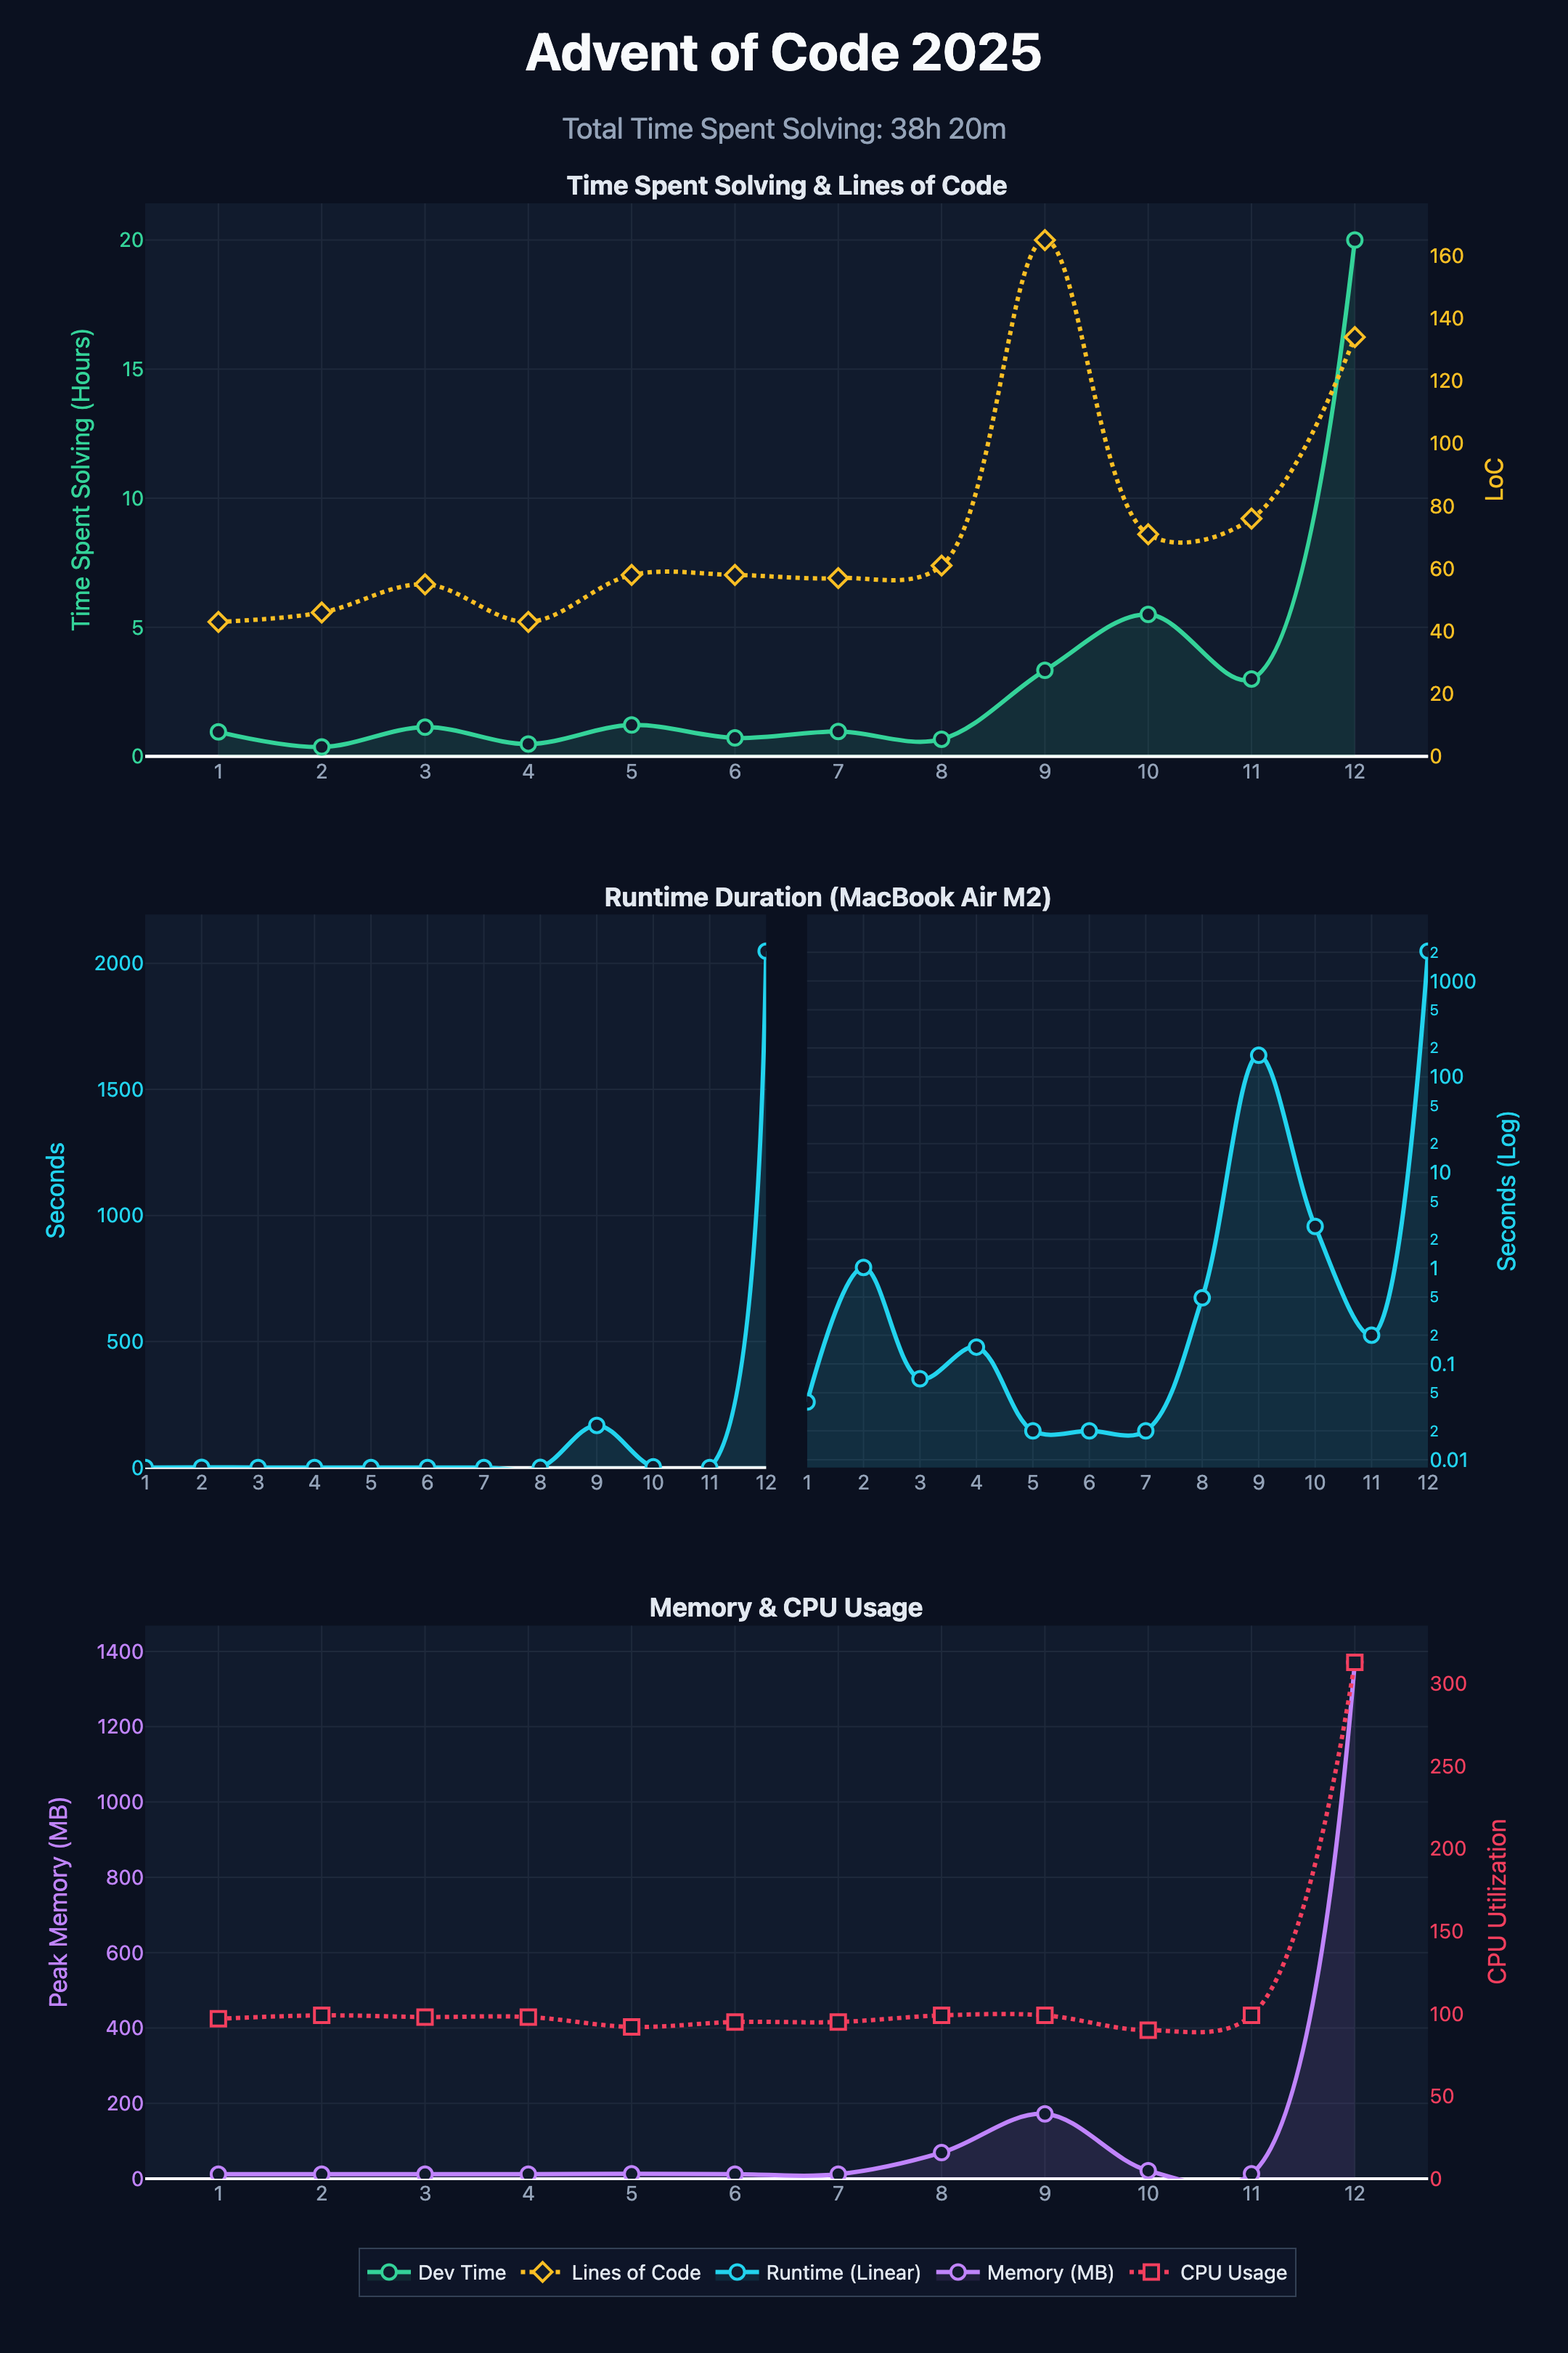
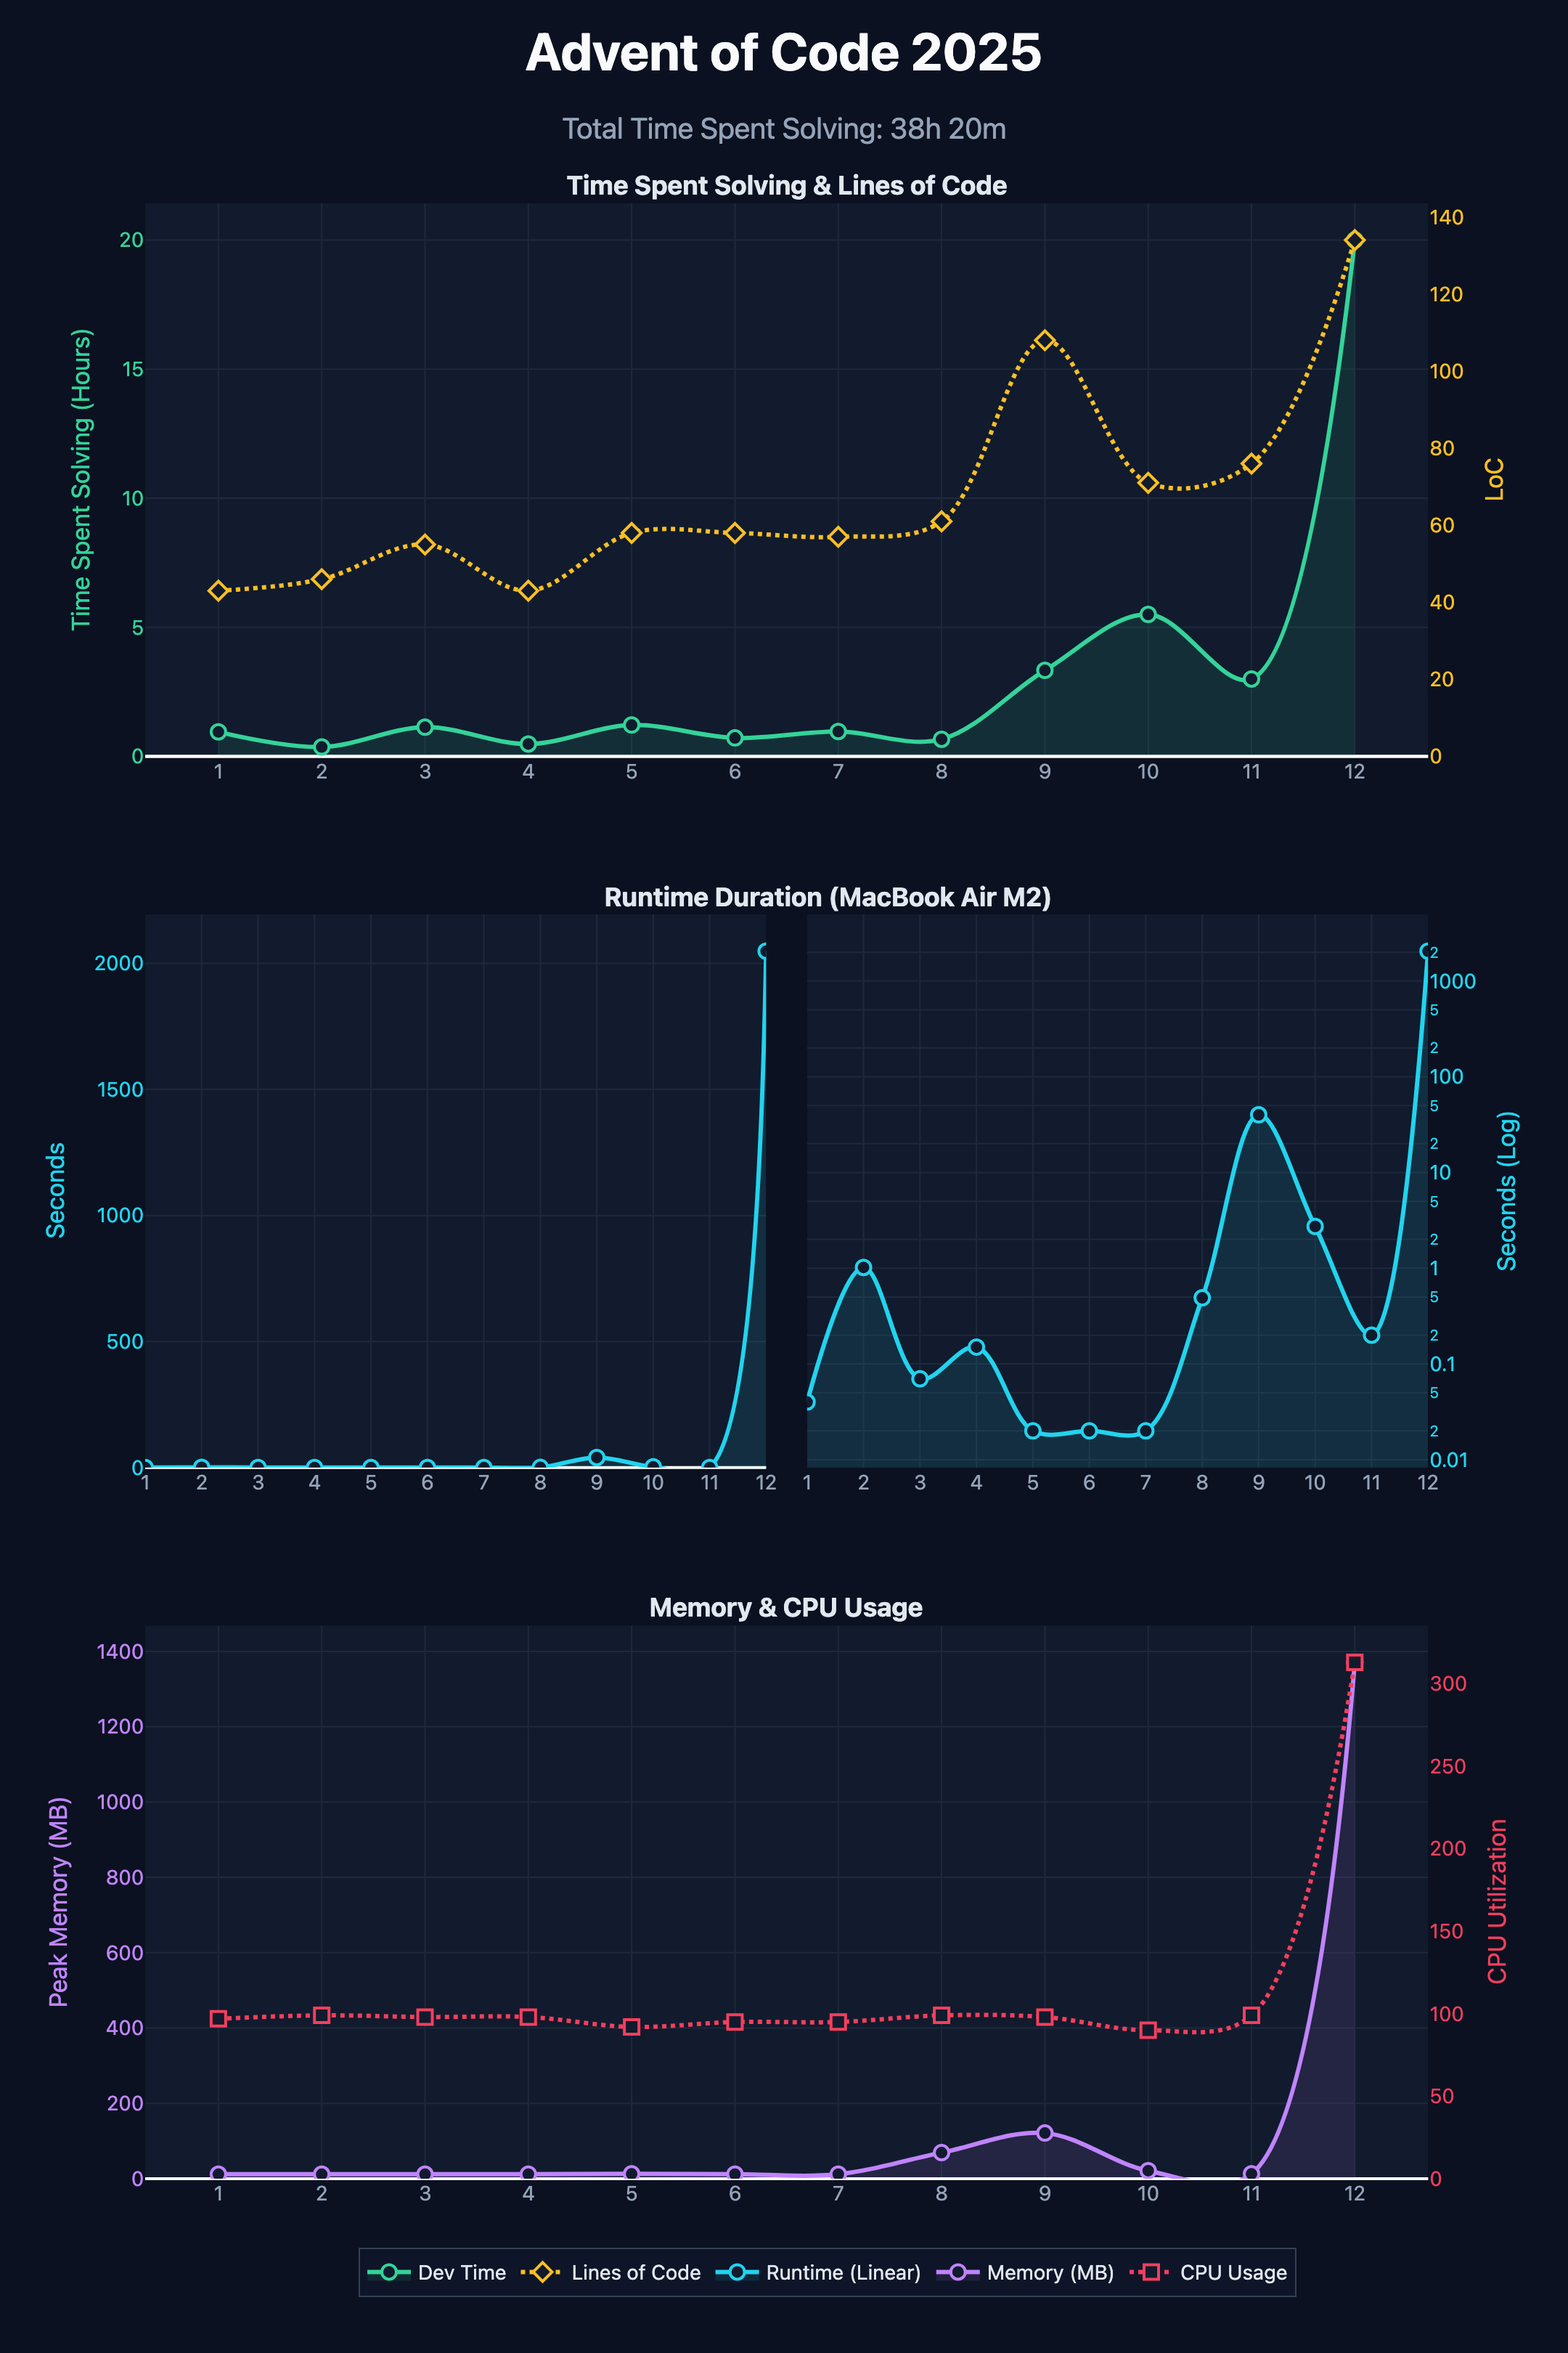
docs: Update README with init_remarks.py instructions

diff --git a/README.md b/README.md
@@ -10,6 +10,9 @@ My solutions for [Advent of Code 2025](https://adventofcode.com/2025), written i
 # Run a specific day's solution
 python day1/safe_cracker.py
 
+# Initialize/update REMARKS.md with metrics for a day (runs cloc + gtime)
+python init_remarks.py <day>
+
 # Generate the progress chart
 python generate_graph.py
 ```

diff --git a/day9/REMARKS.md b/day9/REMARKS.md
@@ -1,9 +1,9 @@
 ---
 dev_time: 200
-loc: 165
-runtime: 167.47
-cpu: 99%
-peak_memory: 176208
+loc: 108
+runtime: 40.0
+cpu: 98%
+peak_memory: 124144
 ---
 # Remarks
 
